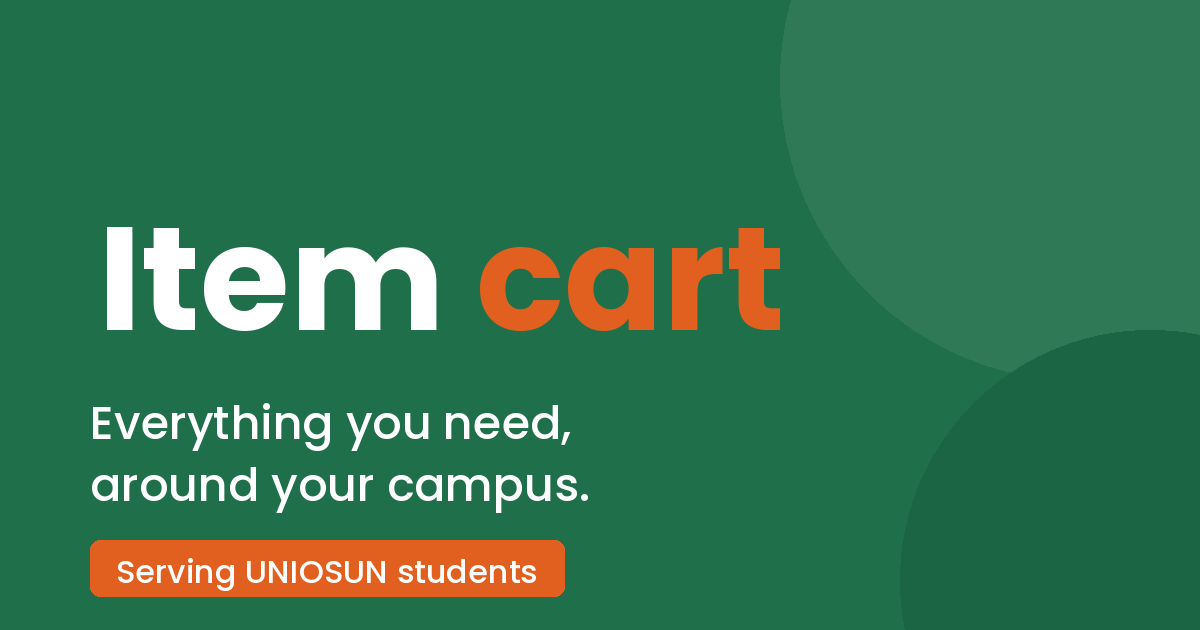
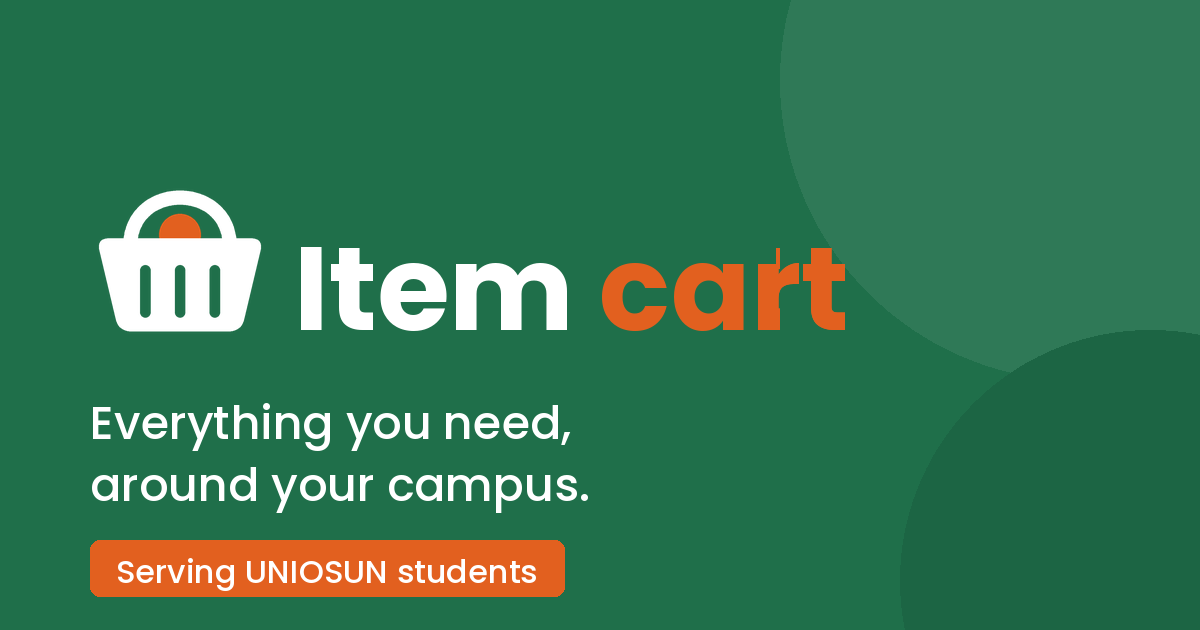
Updated Supabase credentials

Changed region(s): [[0.0617, 0.3016, 0.7092, 0.5429]]

diff --git a/item-cart/js/modules/layout.js b/item-cart/js/modules/layout.js
@@ -37,7 +37,7 @@ export function renderHeader(activeHref) {
 
   header.innerHTML = `
     <div class="container nav-bar">
-      <a href="index.html" class="logo">Item <span>cart</span></a>
+      <a href="index.html" class="logo"><svg class="logo__mark" viewBox="104 128 304 258" aria-hidden="true" focusable="false"><circle class="mark-item" cx="256" cy="212" r="36"/><path d="M117.1 239.4Q112.0 218.0 134.0 218.0L378.0 218.0Q400.0 218.0 394.9 239.4L367.1 356.6Q362.0 378.0 340.0 378.0L172.0 378.0Q150.0 378.0 144.9 356.6ZM187.0 273.0A9.0 9.0 0 0 1 205.0 273.0V345.0A9.0 9.0 0 0 1 187.0 345.0ZM247.0 273.0A9.0 9.0 0 0 1 265.0 273.0V345.0A9.0 9.0 0 0 1 247.0 345.0ZM307.0 273.0A9.0 9.0 0 0 1 325.0 273.0V345.0A9.0 9.0 0 0 1 307.0 345.0Z" fill="currentColor" fill-rule="evenodd"/><path d="M170 232C170 120 342 120 342 232" fill="none" stroke="currentColor" stroke-width="24" stroke-linecap="round"/></svg>Item <span>cart</span></a>
 
       <nav aria-label="Primary">
         <ul class="nav-links" id="nav-links">
@@ -161,7 +161,7 @@ export function renderFooter() {
     <div class="container">
       <div class="footer-grid">
         <div class="footer-col">
-          <a href="index.html" class="logo">Item <span>cart</span></a>
+          <a href="index.html" class="logo"><svg class="logo__mark" viewBox="104 128 304 258" aria-hidden="true" focusable="false"><circle class="mark-item" cx="256" cy="212" r="36"/><path d="M117.1 239.4Q112.0 218.0 134.0 218.0L378.0 218.0Q400.0 218.0 394.9 239.4L367.1 356.6Q362.0 378.0 340.0 378.0L172.0 378.0Q150.0 378.0 144.9 356.6ZM187.0 273.0A9.0 9.0 0 0 1 205.0 273.0V345.0A9.0 9.0 0 0 1 187.0 345.0ZM247.0 273.0A9.0 9.0 0 0 1 265.0 273.0V345.0A9.0 9.0 0 0 1 247.0 345.0ZM307.0 273.0A9.0 9.0 0 0 1 325.0 273.0V345.0A9.0 9.0 0 0 1 307.0 345.0Z" fill="currentColor" fill-rule="evenodd"/><path d="M170 232C170 120 342 120 342 232" fill="none" stroke="currentColor" stroke-width="24" stroke-linecap="round"/></svg>Item <span>cart</span></a>
           <p>Find it. Order it. Item cart. &mdash; a marketplace connecting students with vendors around their campus.</p>
         </div>
         <div class="footer-col">

diff --git a/item-cart/offline.html b/item-cart/offline.html
@@ -15,7 +15,7 @@
   <main id="main-content">
     <section>
       <div class="container" style="padding-block: 96px; text-align: center;">
-        <a href="/" class="logo">Item <span>cart</span></a>
+        <a href="/" class="logo"><svg class="logo__mark" viewBox="104 128 304 258" aria-hidden="true" focusable="false"><circle class="mark-item" cx="256" cy="212" r="36"/><path d="M117.1 239.4Q112.0 218.0 134.0 218.0L378.0 218.0Q400.0 218.0 394.9 239.4L367.1 356.6Q362.0 378.0 340.0 378.0L172.0 378.0Q150.0 378.0 144.9 356.6ZM187.0 273.0A9.0 9.0 0 0 1 205.0 273.0V345.0A9.0 9.0 0 0 1 187.0 345.0ZM247.0 273.0A9.0 9.0 0 0 1 265.0 273.0V345.0A9.0 9.0 0 0 1 247.0 345.0ZM307.0 273.0A9.0 9.0 0 0 1 325.0 273.0V345.0A9.0 9.0 0 0 1 307.0 345.0Z" fill="currentColor" fill-rule="evenodd"/><path d="M170 232C170 120 342 120 342 232" fill="none" stroke="currentColor" stroke-width="24" stroke-linecap="round"/></svg>Item <span>cart</span></a>
         <h1>You're offline</h1>
         <p style="margin-inline:auto">Item cart needs the internet to load vendors, products and chats. Check your connection, then try again.</p>
         <!-- an empty href reloads the page you were trying to open -->

diff --git a/item-cart/admin.html b/item-cart/admin.html
@@ -28,7 +28,7 @@
 
   <header class="site-header">
     <div class="container nav-bar">
-      <a href="index.html" class="logo">Item <span>cart</span></a>
+      <a href="index.html" class="logo"><svg class="logo__mark" viewBox="104 128 304 258" aria-hidden="true" focusable="false"><circle class="mark-item" cx="256" cy="212" r="36"/><path d="M117.1 239.4Q112.0 218.0 134.0 218.0L378.0 218.0Q400.0 218.0 394.9 239.4L367.1 356.6Q362.0 378.0 340.0 378.0L172.0 378.0Q150.0 378.0 144.9 356.6ZM187.0 273.0A9.0 9.0 0 0 1 205.0 273.0V345.0A9.0 9.0 0 0 1 187.0 345.0ZM247.0 273.0A9.0 9.0 0 0 1 265.0 273.0V345.0A9.0 9.0 0 0 1 247.0 345.0ZM307.0 273.0A9.0 9.0 0 0 1 325.0 273.0V345.0A9.0 9.0 0 0 1 307.0 345.0Z" fill="currentColor" fill-rule="evenodd"/><path d="M170 232C170 120 342 120 342 232" fill="none" stroke="currentColor" stroke-width="24" stroke-linecap="round"/></svg>Item <span>cart</span></a>
       <div class="admin-header__right">
         <span class="badge badge-outline">Admin</span>
         <button type="button" class="btn btn-outline btn-sm" id="signout-btn" hidden>Sign out</button>

diff --git a/item-cart/css/components.css b/item-cart/css/components.css
@@ -53,6 +53,30 @@
   color: var(--color-accent);
 }
 
+/* The basket mark sits before the wordmark. Its body follows the logo colour
+   (dark green in the header, white in the footer); the item is always orange. */
+.logo {
+  display: inline-flex;
+  align-items: center;
+  gap: 0.4em;
+}
+
+.logo__mark {
+  height: 1.4em;
+  width: auto;
+  flex: none;
+}
+
+.logo__mark .mark-item {
+  fill: var(--color-accent);
+}
+
+@media (max-width: 360px) {
+  .logo {
+    font-size: var(--fs-md);
+  }
+}
+
 .nav-links {
   display: flex;
   align-items: center;

diff --git a/item-cart/index.html b/item-cart/index.html
@@ -65,7 +65,7 @@
           </form>
           <p class="hero__search-hint">Try: Food, Sneakers, Phone accessories, Perfume, Textbooks, Laundry, Printing</p>
 
-          <div class="hero__actions" style="margin-top: 24px;">
+          <div class="hero__actions">
             <a href="marketplace.html" class="btn btn-primary">Explore Marketplace</a>
             <a href="become-vendor.html" class="btn btn-outline">Become a Vendor</a>
           </div>

diff --git a/item-cart/sw.js b/item-cart/sw.js
@@ -18,7 +18,7 @@
 //       only if you want every phone to throw away its saved copies.
 // =====================================================================
 
-const VERSION = "item-cart-v1";
+const VERSION = "item-cart-v2";
 const SLOW_NETWORK_MS = 4000;
 
 // Saved on install so the offline page itself always works.
